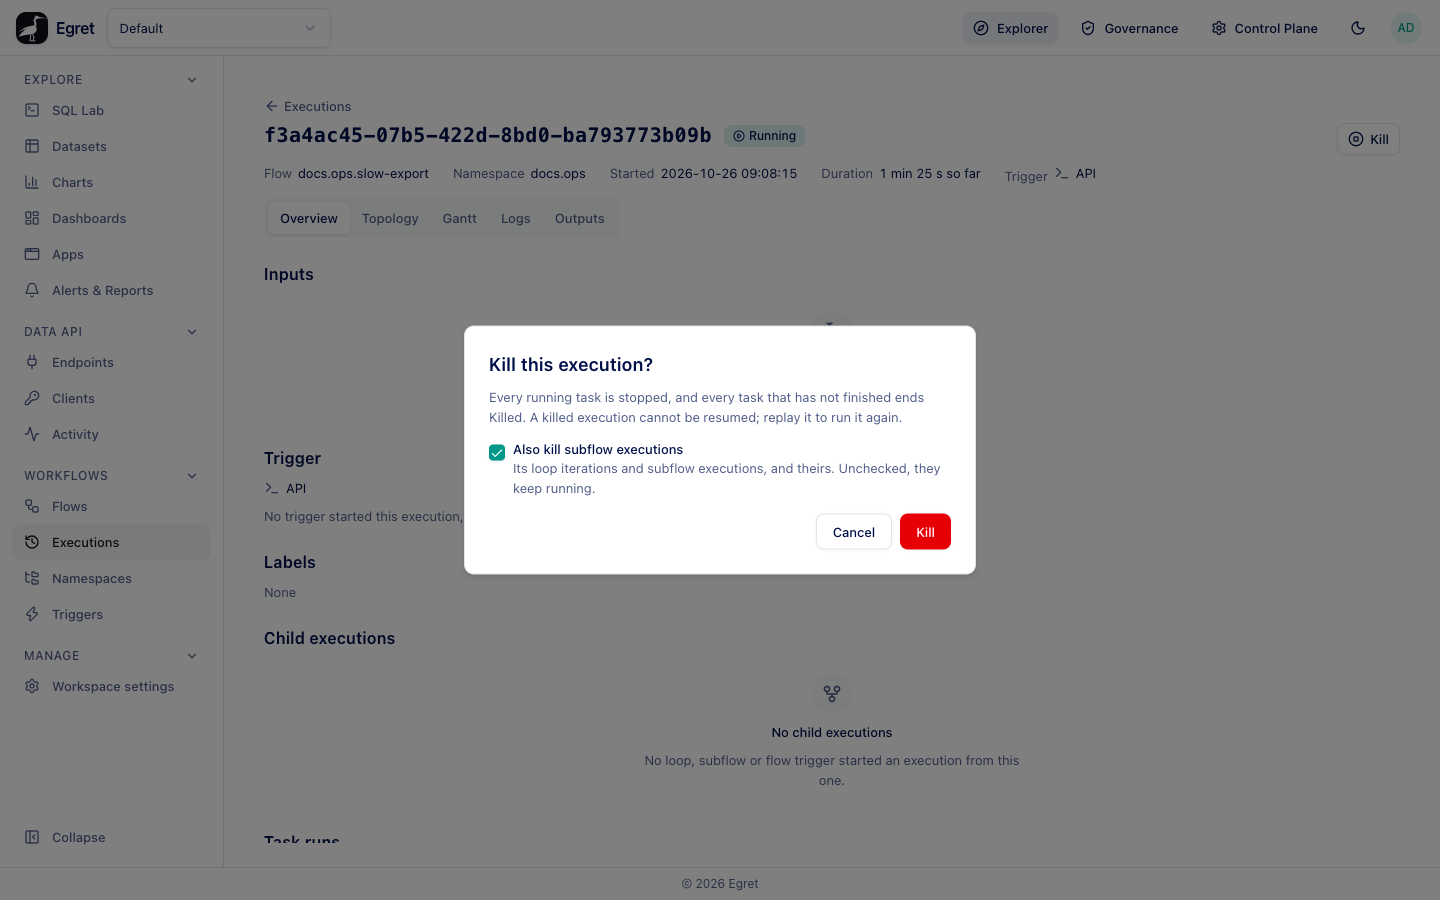
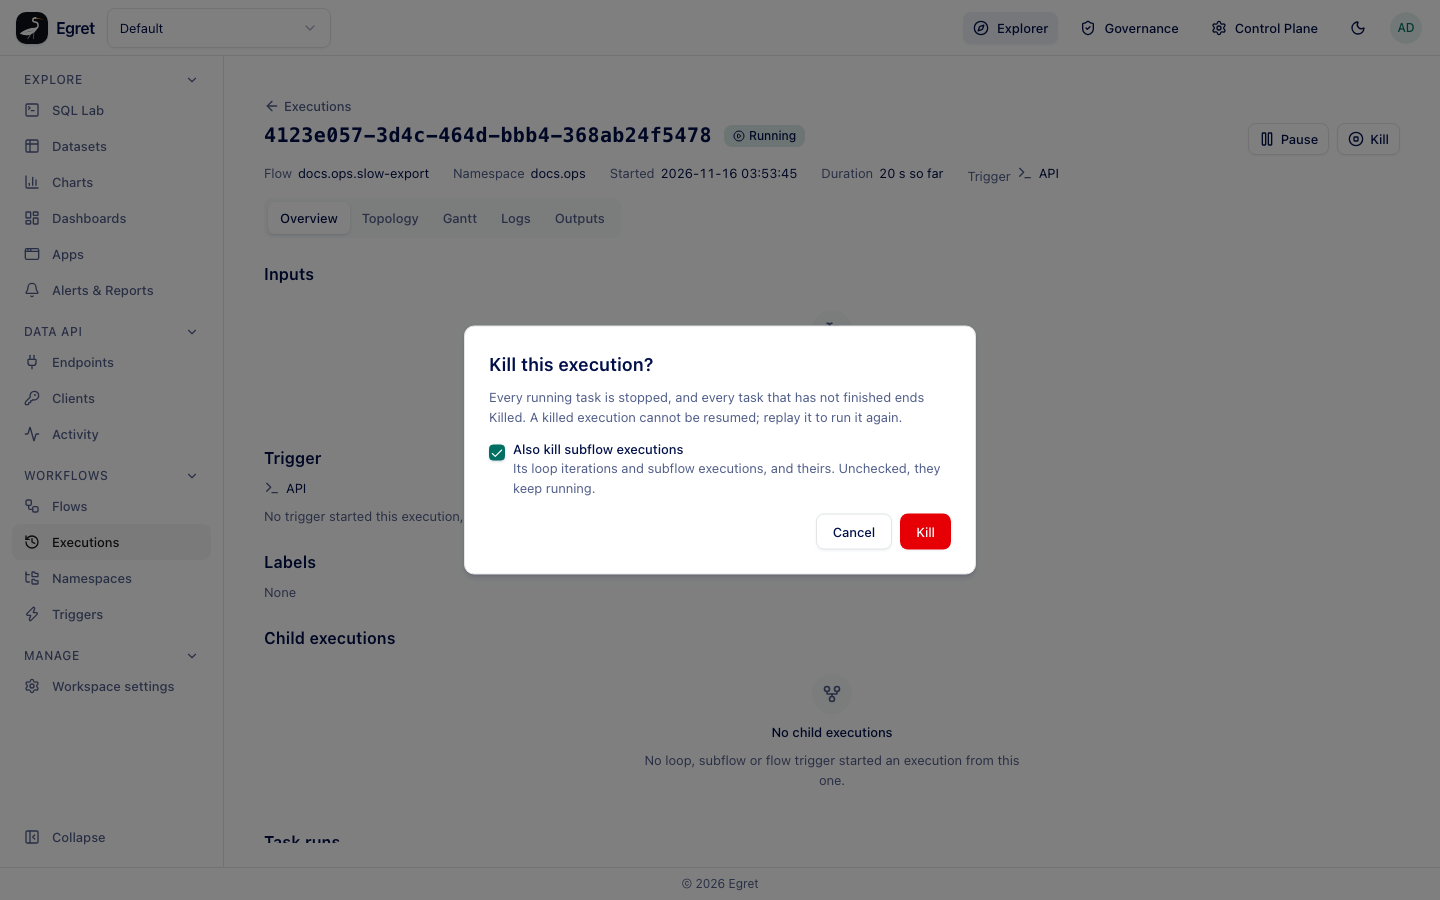
docs(workflows): verify 7c pages against the code and refresh header screenshots

diff --git a/platform/workflows/executions/actions.md b/platform/workflows/executions/actions.md
@@ -38,6 +38,8 @@ What happens:
 - **A loop keeps going where it already is.** Iterations of a `Loop` are separate executions and may still start under a paused loop.
 - **Resume** sends the execution on: the tasks that were waiting start. A pause by hand has no `Pause` task, so it takes no inputs.
 
+A toast says *Paused the execution*. **Pause** is shown while the execution runs. It is disabled, with the reason next to it, while the execution is being killed, while a `Pause` or `LoopUntil` task is waiting, and on a loop iteration.
+
 The API route is `POST /api/ws/{workspace}/workflows/executions/{id}/pause`. It answers `200` with the execution, which has `paused_by_hand: true`.
 
 ```bash
@@ -55,7 +57,7 @@ A pause is refused, and nothing changes, when:
 
 1. Open the paused execution.
 2. Press **Resume**.
-3. Confirm in the dialog. What it asks depends on why the execution is paused (see below).
+3. Confirm in the dialog. When it opens, it asks the server which inputs the waiting `Pause` wants, so it shows a short loading state first. What it then says depends on why the execution is paused (see below).
 
 A `Pause` task ends `SUCCESS`, the execution moves through `RESTARTED` and `RUNNING`, and the tasks after the pause run.
 
@@ -79,6 +81,10 @@ A paused execution shows **Resume** and **Kill** at the top right (the screensho
 
 Resuming releases every paused `Pause` task of the execution at once, whatever its `pauseDuration`. If the execution is paused only because a `LoopUntil` is waiting for its next check, **Resume** is disabled and says *Waiting on a loop condition, not a Pause task*. A resume feedback toast says *Resumed the execution*, or warns if the execution then ended in a failure.
 
+### A Pause without `onResume`
+
+The dialog says *Every paused task ends now as a success, whatever its duration or timeout, and the execution continues with the tasks after it.* Confirm to resume.
+
 ### A pause by hand
 
 The dialog says *The execution continues: the tasks that were waiting start now.* There is nothing to fill in.
@@ -90,7 +96,7 @@ A `Pause` task can declare `onResume` inputs, questions it asks whoever resumes 
 ![The Resume dialog with one field per onResume input](/img/platform/workflows/execution-resume-inputs-dialog.png)
 
 - **One field per input.** A required input is marked. Defaults are filled in.
-- **Errors show under the field.** The page checks your values with the server before it resumes, as a run form does for flow inputs. Nothing resumes while an input has an error.
+- **Errors show under the field.** When you press **Resume**, the page first checks your values with the server, as a run form does for flow inputs. Nothing resumes while an input has an error.
 - **The values become the Pause's outputs.** The `Pause` run's outputs are `onResume` (the values) and `resumed`:
 
 ```json
@@ -104,7 +110,7 @@ A later task reads a value as `{{ outputs.<pause>.onResume.<input> }}`.
 
 - **Files are kept with the Pause run.** A `FILE` input is stored under the `Pause` run, and its value is the file's URI. A `SECRET` value reads `******`.
 - **If several `Pause` tasks wait,** the first one in run order gets the inputs. The others end successfully with an empty `onResume`.
-- **The values are not logged.** The audit event records the resume, never the inputs.
+- **The values are not logged.** The audit event records the resume and whether inputs were given (yes or no), never the inputs.
 
 On a flow that has an `egret.sql` task, which runs as the flow's creator, only its creator can resume a `Pause` that declares `onResume` (`400`).
 
@@ -301,7 +307,7 @@ A state outside **Success**, **Warning**, **Failed** and **Cancelled** is refuse
 
 ## Permission and audit
 
-**Pause**, **Resume**, **Restart**, **Replay**, **Change status** and **Change state** need `workflow:manage`, and so does `resume/validate`; without it the buttons are hidden. Each one is written to the audit log: `workflow_execution:pause`, `workflow_execution:resume`, `workflow_execution:restart`, `workflow_execution:replay`, `workflow_execution:set_status` and `workflow_execution:set_task_run_state`. Resume events carry no input values. Replay and restart events carry `task_run_id`, `source`, `inputs_replaced` and `replayed_from`.
+**Pause**, **Resume**, **Restart**, **Replay**, **Change status** and **Change state** need `workflow:manage`, and so does `resume/validate`; without it the buttons are hidden. Each one is written to the audit log: `workflow_execution:pause`, `workflow_execution:resume`, `workflow_execution:restart`, `workflow_execution:replay`, `workflow_execution:set_status` and `workflow_execution:set_task_run_state`. The pause event carries the state it left (`from_state`). The resume event carries `from_state`, `by_hand`, `task_run_id` and `inputs_given`, a yes or no, never the values. Replay and restart events carry `task_run_id`, `source`, `inputs_replaced` and `replayed_from`.
 
 ## Replay an execution
 

diff --git a/platform/workflows/flows/flow-control.md b/platform/workflows/flows/flow-control.md
@@ -323,6 +323,8 @@ When the execution resumes, the `Pause` run ends `SUCCESS` and has two outputs:
 | `onResume` | The values, by input id: `{{ outputs.gate.onResume.reason }}`. A `SECRET` value reads `******`. A `FILE` input is stored under the `Pause` run and its value is the file's URI. |
 | `resumed` | Who and when: `by`, `on` (the time) and `to` (`SUCCESS`). |
 
+A `Pause` that ends on its `pauseDuration` or `timeout` is not resumed by anyone, so it gets no `onResume` or `resumed` outputs. Only a resume by hand writes them.
+
 To resume with inputs from the page or the API, see [Resume with inputs](../executions/actions.md#a-pause-with-onresume).
 
 On a flow that has an `egret.sql` task, only the flow's creator can resume a `Pause` that declares `onResume`.
